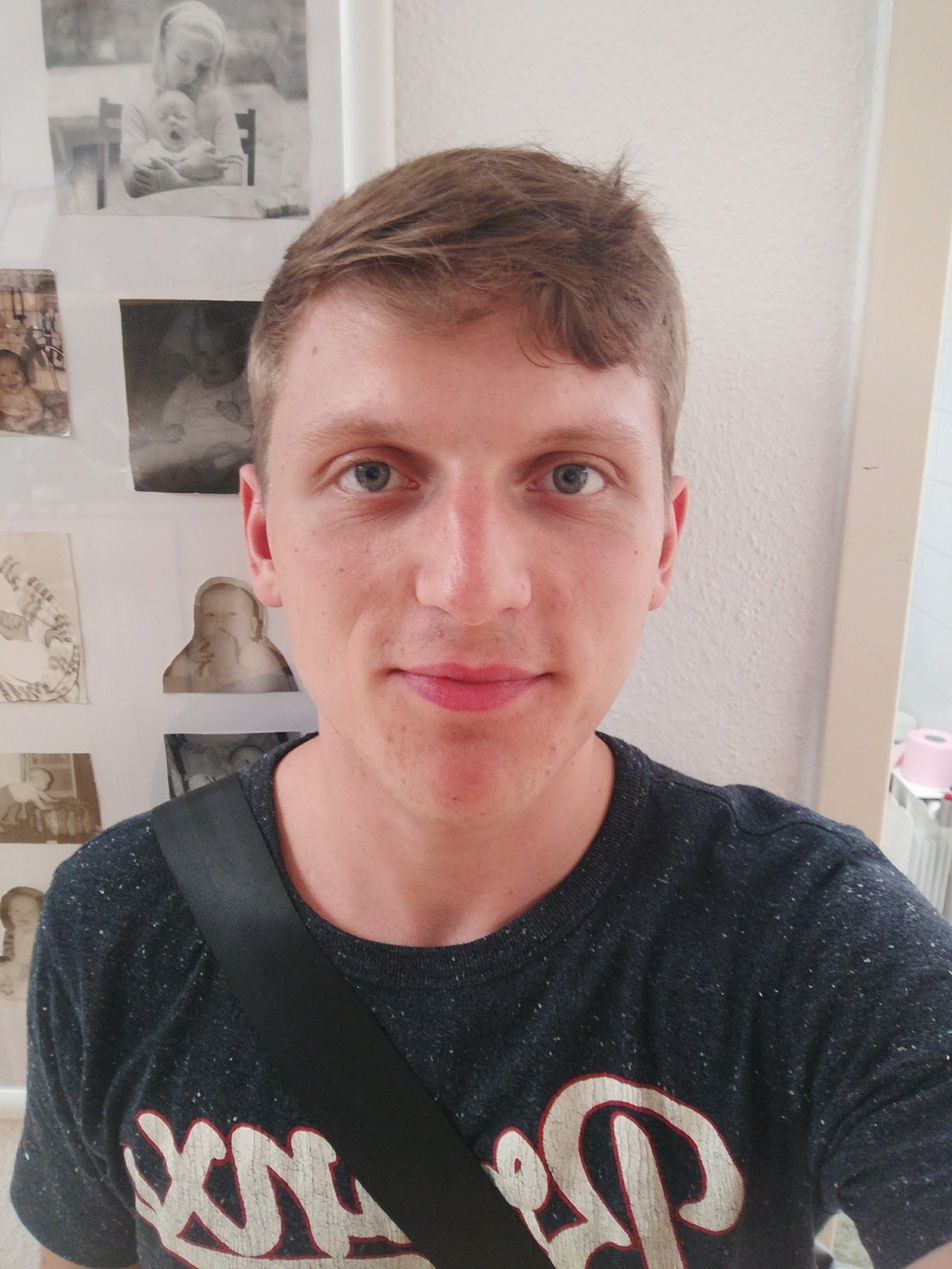
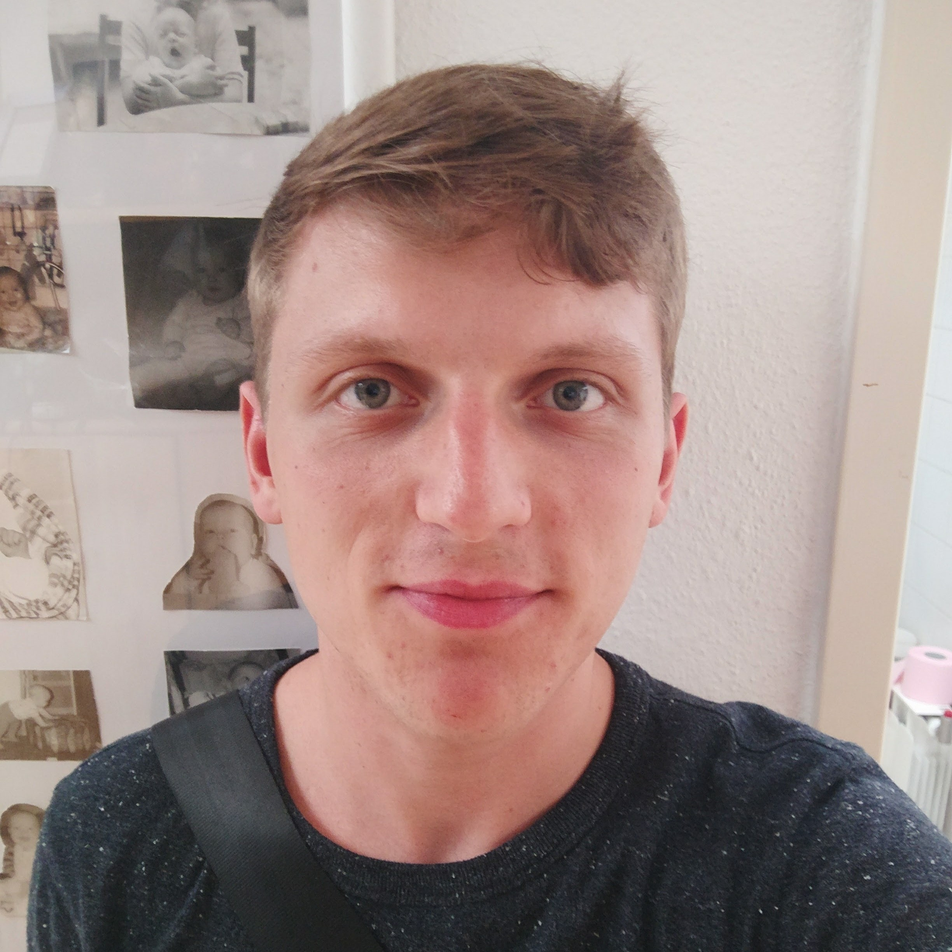
Viele Sachen probiert
Viele Sachen verändert wie Bilder zugeschnitten etc

diff --git a/ueber.html b/ueber.html
@@ -18,9 +18,14 @@
                 </ul>
             </nav>
         </header>
-        <article>
-            <h2>Franz Lisdat</h2>
-            <img src="pictures/franz.jpg" title="Franz Lisdat" alt="Franz Lisdat" class="about_img">
+        
+           <div class="bilder">
+            <img src="pictures/franz.jpg" title="Franz Lisdat" alt="Franz Lisdat" class="about_img_franz" span="Penis">
+            <img src="pictures/timon.jpg" title="Timon Elflein" alt="Timon Elflein" class="about_img_timon">
+            <img src="pictures/dustin.jpg" title="Dustin Reimann" alt="Dustin Reimann" class="about_img_dustin">
+        </div>
+    <article class="franz_text">
+ <h2>Franz Lisdat</h2>
             <p>
 Hi :D
 Mein Name ist Franz Lisdat und ich bin Medieninformatik Student an der HTW Berlin. Ich würde gern selber Spiele entwickeln als Designer und Programmer in einer Spiele Firma.
@@ -92,9 +97,9 @@ Was wird Spiel des Jahres 2017? (GOTY)
 - Super Mario Odyssey
             </p>
         </article>
-        <article>
+        <article> class="Timons_Text"
             <h2>Timon Elflein</h2>
-            <img src="pictures/timon.jpg" title="Timon Elflein" alt="Timon Elflein" class="about_img">
+          
             <p>
 Hey!
 
@@ -149,7 +154,6 @@ Was wird Spiel des Jahres 2017? (GOTY)
         </article>
         <article>
             <h2>Dustin Reimann</h2>
-            <img src="pictures/dustin.jpg" title="Dustin Reimann" alt="Dustin Reimann" class="about_img">
             <p>
 Ich bin Dustin, 19 Jahre alt, komme aus Berlin und wohne zurzeit  in Wilhelmsruh. Seit dem Wintersemester 2017 bin ich Student an der HTW Berlin und studiere dort den internationalen Studiengang Medieninformatik. Warum ich mich für dieses Studium entschieden habe? In meiner Freizeit zocke ich unheimlich gerne Games und seit zwei Jahren auch Programmieren.
 

diff --git a/style.css b/style.css
@@ -116,14 +116,51 @@ article{
     margin: auto;
     margin-bottom: 20px;
     text-align: justify;
-    
 }
 
-.about_img{
-    display: block;
-    width: 300px;
+.bilder{
+       width: 800px;
     margin: auto;
     margin-bottom: 20px;
+    text-align: justify;
+}
+    .about_img_franz {
+    display: inline;
+    width: 250px;
+    margin-left: 5px;
+    margin-right: 5px;
+    margin-bottom: 20px;
+    margin-top: 40px;   
+    }
+
+    
+.about_img_timon {
+        display: inline;
+    width: 250px;
+    margin-left: 5px;
+    margin-right: 5px;
+    margin-bottom: 20px;
+    margin-top: 40px;
+  opacity: 1;
+  transition: all ease 0.8s;
+}
+.about_img_timon:hover {
+    
+  opacity: 1;
+}
+.about_img_dustin {
+        display: inline;
+    width: 250px;
+    margin-left: 5px;
+    margin-right: 5px;
+    margin-bottom: 20px;
+    margin-top: 40px;
+  opacity: 1;
+  transition: all ease 0.8s;
+}
+.about_img_dustin:hover {
+    
+  opacity: 1;
 }
 
 
@@ -293,5 +330,5 @@ p:first-child{
         margin-top: 120px;
         padding-top: 5px;
     }
-    
+
 }
